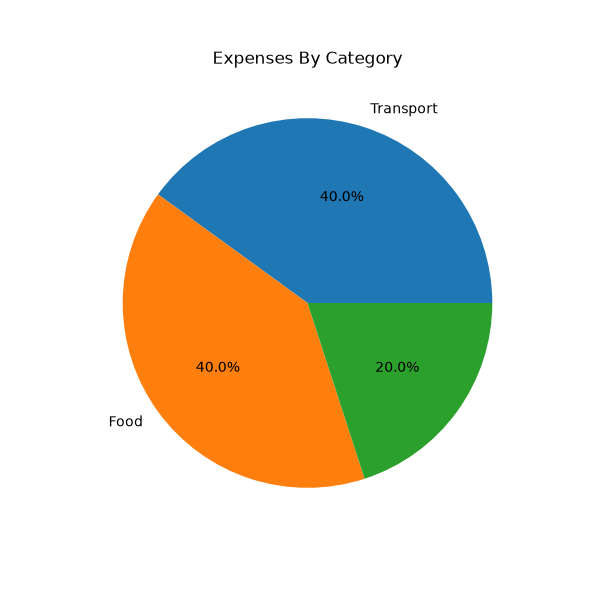
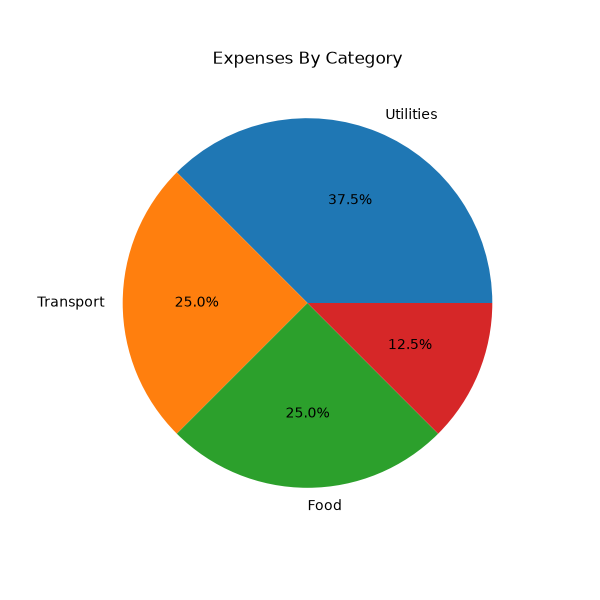
landing page bulid

diff --git a/templates/index.html b/templates/index.html
@@ -1,16 +1,176 @@
-<!DOCTYPE html>
-<html>
-<head>
-    <title>Personal Expense Tracker</title>
-</head>
-<body>
+<link href="https://cdn.jsdelivr.net/npm/bootstrap@5.3.3/dist/css/bootstrap.min.css" rel="stylesheet">
 
-<h1>Personal Expense Tracker</h1>
+<style>
 
-<a href="/register">Register</a>
-<br><br>
+    body{
+        background: linear-gradient(135deg,#0d6efd,#0dcaf0);
+        min-height:100vh;
+    }
 
-<a href="/login">Login</a>
+    .hero{
+        padding:100px 0;
+        color:white;
+    }
 
-</body>
-</html>
+    .feature-card{
+        transition:0.3s;
+        border:none;
+    }
+
+    .feature-card:hover{
+        transform:translateY(-8px);
+    }
+
+    .hero-box{
+        background:white;
+        border-radius:20px;
+        padding:50px;
+        box-shadow:0 10px 30px rgba(0,0,0,0.2);
+    }
+
+    footer{
+        color:white;
+        text-align:center;
+        padding:20px;
+    }
+
+</style>
+    <a class="navbar-brand" href="#">
+        💰 Expense Tracker
+    </a>
+
+    <div>
+        <a href="/login" class="btn btn-outline-light me-2">
+            Login
+        </a>
+
+        <a href="/register" class="btn btn-warning">
+            Register
+        </a>
+    </div>
+
+</div>
+<div class="container">
+
+    <div class="hero-box">
+
+        <div class="row align-items-center">
+
+            <div class="col-md-6">
+
+                <h1 class="display-4 fw-bold text-primary">
+                    Personal Expense Tracker
+                </h1>
+
+                <p class="lead text-dark">
+                    Track your spending, manage categories,
+                    visualize expenses with charts,
+                    and export reports to Excel and PDF.
+                </p>
+
+                <a href="/register" class="btn btn-primary btn-lg me-2">
+                    Get Started
+                </a>
+
+                <a href="/login" class="btn btn-success btn-lg">
+                    Login
+                </a>
+
+            </div>
+
+            <div class="col-md-6 text-center">
+
+                <h1 style="font-size:120px;">
+                    📊
+                </h1>
+
+            </div>
+
+        </div>
+
+    </div>
+
+</div>
+<div class="row g-4">
+
+    <div class="col-md-3">
+
+        <div class="card feature-card shadow">
+
+            <div class="card-body text-center">
+
+                <h2>💸</h2>
+
+                <h5>Expense Tracking</h5>
+
+                <p>
+                    Record and manage expenses easily.
+                </p>
+
+            </div>
+
+        </div>
+
+    </div>
+
+    <div class="col-md-3">
+
+        <div class="card feature-card shadow">
+
+            <div class="card-body text-center">
+
+                <h2>📈</h2>
+
+                <h5>Analytics</h5>
+
+                <p>
+                    View spending summaries and charts.
+                </p>
+
+            </div>
+
+        </div>
+
+    </div>
+
+    <div class="col-md-3">
+
+        <div class="card feature-card shadow">
+
+            <div class="card-body text-center">
+
+                <h2>📄</h2>
+
+                <h5>PDF Reports</h5>
+
+                <p>
+                    Export expenses as professional reports.
+                </p>
+
+            </div>
+
+        </div>
+
+    </div>
+
+    <div class="col-md-3">
+
+        <div class="card feature-card shadow">
+
+            <div class="card-body text-center">
+
+                <h2>📊</h2>
+
+                <h5>Excel Export</h5>
+
+                <p>
+                    Download data for analysis.
+                </p>
+
+            </div>
+
+        </div>
+
+    </div>
+
+</div>